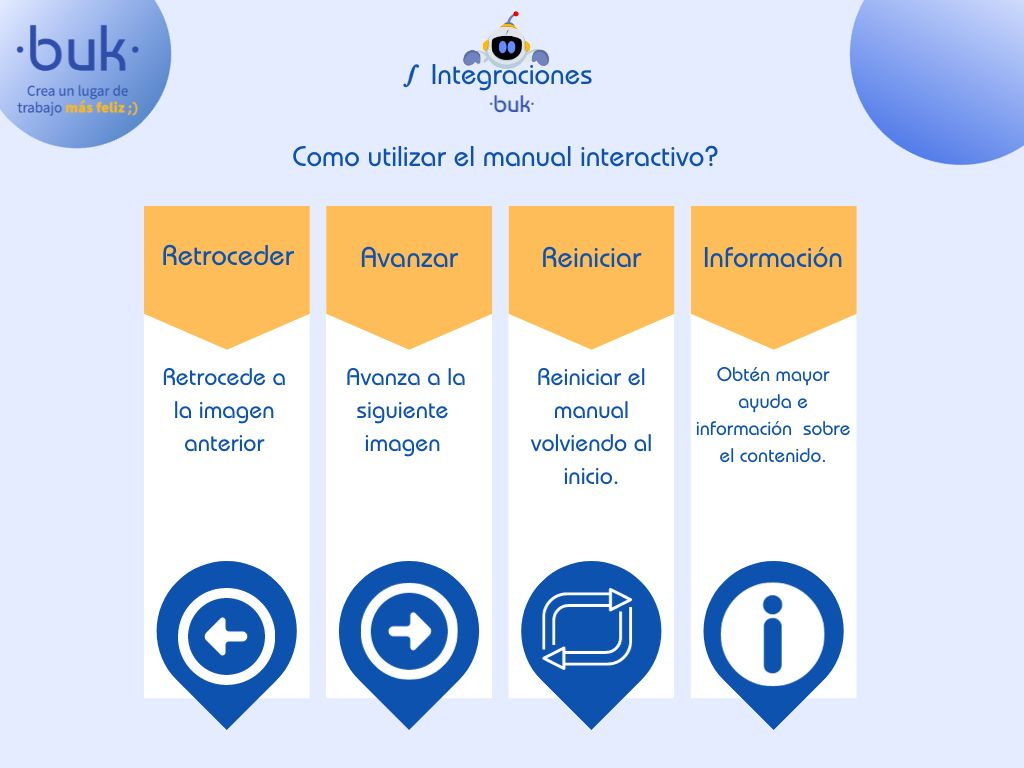
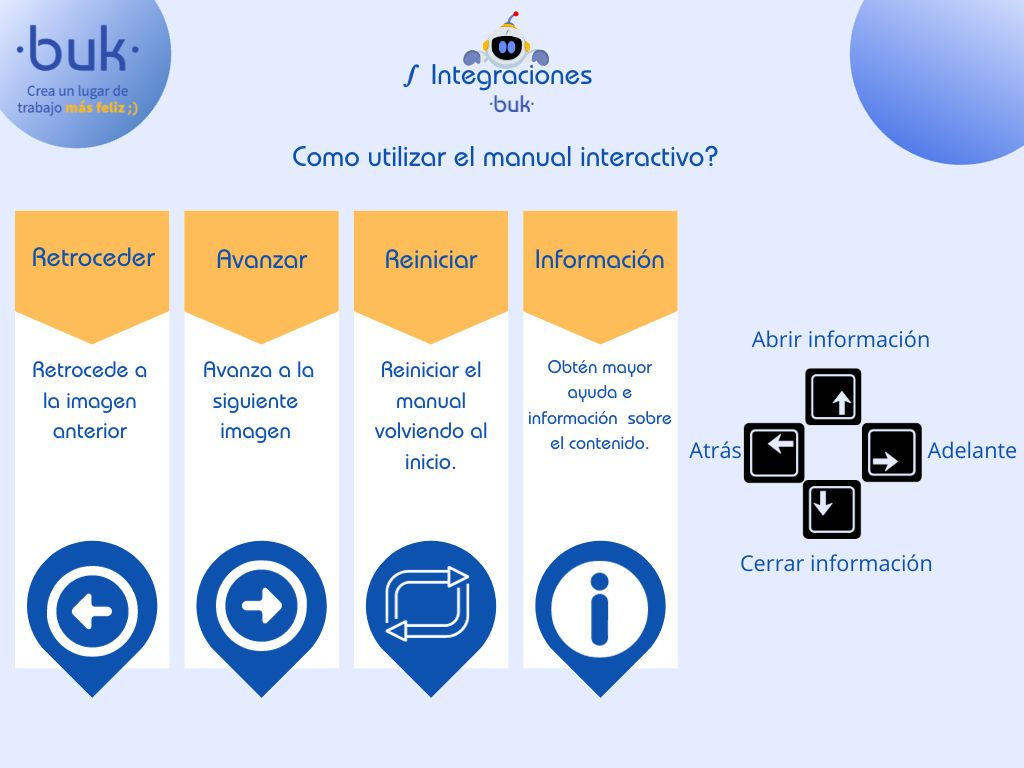
mejoras

Changed region(s): [[0.0, 0.25, 1.0, 0.9688]]

diff --git a/contenido.html b/contenido.html
@@ -82,15 +82,15 @@
 
     <div>
         <h5 class="color-titulo text-center" id="contadorImagenes">1/1</h5>
-        <button id="botonAnterior" class="btn btn-link" onclick="imagenAnterior()"><i class="bi bi-arrow-left-circle"
+        <button id="botonAnterior" class="btn btn-link" onclick="imagenAnterior()" data-toggle="tooltip" title="Atrás">
+            <i class="bi bi-arrow-left-circle" style="font-size: 2rem;"></i>
+        </button>
+        <button id="botonDerivar" class="btn btn-link" onclick="cambiarImagen()" data-toggle="tooltip" title="Siguiente"><i class="bi bi-arrow-right-circle"
                 style="font-size: 2rem;"></i></button>
-        <button id="botonDerivar" class="btn btn-link" onclick="cambiarImagen()"><i class="bi bi-arrow-right-circle"
+        <button id="botonInicio" class="btn btn-link" onclick="irAOtraPagina()" data-toggle="tooltip" title="Reiniciar"><i class="bi bi-arrow-repeat"
                 style="font-size: 2rem;"></i></button>
-        <button id="botonInicio" class="btn btn-link" onclick="irAOtraPagina()"><i class="bi bi-arrow-repeat"
-                style="font-size: 2rem;"></i></button>
-        <button id="botonModal" class="btn btn-link" data-toggle="modal" onclick="mostrarContenidoModal()"
+        <button id="botonModal" class="btn btn-link" data-toggle="modal" onclick="mostrarContenidoModal()" data-toggle="tooltip" title="Ayuda"
             data-target="#miModal"><i class="bi bi-info-circle" style="font-size: 2rem;"></i></button>
-        <!-- <button id="botonOK" class="btn btn-primary" style="display: none;">Comencemos</button>-->
     </div>
     <!-- Modal -->
     <div class="modal fade" id="miModal" tabindex="-1" role="dialog" aria-labelledby="exampleModalLabel"
@@ -120,8 +120,22 @@
     <script>
         const urlParams = new URLSearchParams(window.location.search);
         const opcionSeleccionada = urlParams.get('option');
-
         // Definir diferentes arreglos según la opción
+        // Agregar event listener para el evento de teclado
+        document.addEventListener('keydown', function (event) {
+            // Verificar si la tecla presionada es la tecla deseada (en este caso, 'Enter' o 'Space')
+            if (event.key === 'ArrowRight') {
+                // Llamar a la función que avanza a la siguiente imagen
+                cambiarImagen();
+            }else if (event.key === 'ArrowLeft'){
+                imagenAnterior();
+            }else if (event.key === 'ArrowUp'){
+                mostrarContenidoModal();
+            }else if (event.key === 'ArrowDown'){
+                $('#miModal').modal('hide');
+            }
+        });
+
         const opciones = {
             sso_oauth: [
                 "imagenes/sso_oauth_0.png",
@@ -234,8 +248,17 @@
         let imagenes = opciones[opcionSeleccionada] || [];
 
         var indiceActual = 0;
+        $(document).ready(function(){
+        $('[data-toggle="tooltip"]').tooltip({
+            animation: true,
+            delay: { "show": 500, "hide": 100 },
+            trigger: "hover",
+            template: '<div class="tooltip bg-primary" role="tooltip"><div class="arrow"></div><div class="tooltip-inner"></div></div>'
+        });
+    });
 
         function cambiarImagen() {
+            console.log('Cambiar imagen con teclado');
             if (indiceActual < imagenes.length - 1) {
                 indiceActual++;
             } else {
